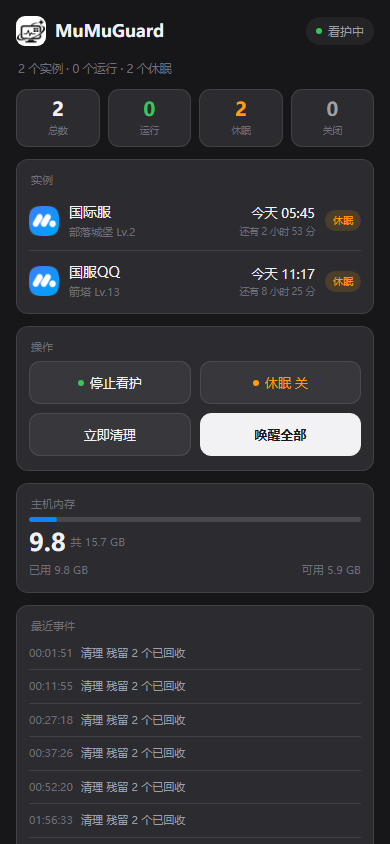
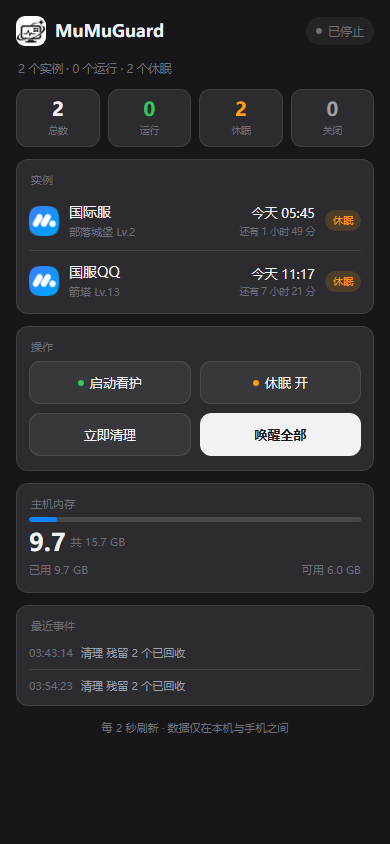
2.0.0 发布准备：README 重写（249 行，24 项设置表+5 张新图）；自检扩到 25 项；自检不再弹资源管理器；版本比较忽略预发布后缀

diff --git a/README.md b/README.md
@@ -1,10 +1,10 @@
 <img src="icon.png" width="80" align="left" style="margin-right:14px" alt="MuMuGuard">
 
-# MuMuGuard
+# MuMuGuard：MuMu 模拟器多开看护面板
 
-**MuMu 模拟器多开看护面板。** 盯着你的每一个实例，掉线自动重启，等升级期间自动休眠省内存，醒来自己接着跑。
+盯着每个实例，掉线自动拉起，等升级时休眠省内存，醒来自动接着跑。
 
-![版本](https://img.shields.io/badge/version-1.6.3-3DDC84)
+![版本](https://img.shields.io/badge/version-2.0.0-3DDC84)
 ![平台](https://img.shields.io/badge/platform-Windows%2010%20%7C%2011-0A0D14)
 ![许可](https://img.shields.io/badge/license-MIT-blue)
 ![QQ 群](https://img.shields.io/badge/QQ%E7%BE%A4-1128379535-12B7F5)
@@ -13,48 +13,80 @@
 
 ---
 
-## 长什么样
+## 它是什么
 
-**概览** — 打开就是全部实例的状态
+MuMuGuard 是给 MuMu 模拟器多开用的看护面板，运行在 Windows 10 / 11 上。它把每个实例的状态收在一个窗口里：内存、CPU、脚本和游戏是否在跑、升级还剩多久。脚本掉了会自动重启，等建筑升级时可以关掉模拟器省内存，快到时间再打开。
 
-![概览](docs/screenshots/shell-live.png)
+它不改 MuMu 本体，不改你的多开配置，不装系统服务，也不上传数据。看护要手动点开始，程序不会自己启动。
 
-**紧凑视图** — 挂角落里，只占 344×182
-
-![紧凑视图](docs/screenshots/live-compact.png)
-
-**手机上也能看**
-
-<img src="docs/screenshots/remote-phone.png" width="330" alt="手机页面">
+项目地址：[github.com/suuk324/MuMuGuard](https://github.com/suuk324/MuMuGuard)
 
 ---
 
-## 它能做什么
+## 界面长什么样
+
+2.0.0 把界面重做成左侧导航加右侧内容区，一共五个页面。主题有跟随系统、深色、浅色三种，在设置页点一下即时切换，不用重启。
+
+<img src="docs/screenshots/shell-dark.png" width="760" alt="概览（深色）">
+
+### 五个页面
+
+| 页面 | 放什么 |
+|---|---|
+| **概览** | 实例总数、运行中、休眠中、已关闭四张统计卡；实例监控；最近事件；主机内存；快捷操作；系统健康；下一次唤醒和今日休眠 |
+| **实例管理** | 每个实例一行，带检测开关、详情，以及启动 / 唤醒 / 重启 |
+| **健康检查** | 内存压缩、系统预取、Mem Reduct、页面文件、CEF、权限六项体检 |
+| **事件记录** | 今日休眠、自动唤醒、内存清理、异常恢复四个数字，下面是完整事件 |
+| **设置** | 24 项可调项，分休眠、掉线恢复、资源告警与清理、路径与包名、其它五组 |
+
+概览里的实例行可以直接点进实例管理，右上角「管理 ›」、事件区的「查看全部 ›」、右侧「系统健康」卡也都能点，不用先找侧栏。
+
+事件记录页有搜索框，按实例名或事件内容过滤；下面还有「全部 / 告警 / 休眠」三个筛选，可以叠加使用。
+
+### 实例详情
+
+实例管理每行都有一个「详情」。点开能看到序号、游戏和等级、升级剩余时间、预计完成时刻、休眠倒计时、内存占用、CPU 情况，以及掉线检测是开启还是已暂停。底部可以直接暂停或恢复这个实例的检测，不影响其它实例。
+
+### 主题和设置
+
+<img src="docs/screenshots/theme-light.png" width="760" alt="概览（浅色）">
+
+切到浅色后是同一套布局，颜色、文字和图标一起换，不会留下深色底。
+
+<img src="docs/screenshots/settings-full.png" width="760" alt="设置页">
+
+设置页的每一行都是「名称 + 一句说明 + 右侧开关或数值」。开关点一下切换，数值点右侧的胶囊直接输入，路径和包名也是点进去改。改完立刻保存，同时写进 `config.json`，不需要重启。
+
+---
+
+## 能做什么
 
 | 功能 | 说明 |
 |---|---|
-| **多开监控** | 自动发现所有实例，显示内存、CEF 进程数、脚本与游戏状态 |
-| **掉线自恢复** | 脚本或游戏掉了，自动重启实例并重新拉起脚本 |
-| **空转识别** | 脚本在跑但一直空转，标记出来 |
-| **CEF 泄漏清理** | 清掉堆积的 `CefViewWing.exe`，能还回几个 GB |
-| **升级休眠** | 脚本只是在等建筑升级时关掉模拟器省内存，升级前自动唤醒 |
-| **健康自检** | 内存压缩、SysMain、Mem Reduct、页面文件、CEF、权限，六项体检 |
-| **手机看状态** | 局域网直连，或公网中转，在外面也能看一眼 |
-| **托盘常驻** | 收起只留托盘图标，唤醒器独立运行 |
+| **多开监控** | 自动发现 MuMu 实例，显示内存、CPU、CEF 进程数、脚本与游戏状态 |
+| **掉线自恢复** | 连续检测到脚本或游戏掉线后重启实例，并重新拉起脚本 |
+| **空转识别** | 脚本在跑但 CPU 长期很低时标出来，避免白挂一晚上 |
+| **CEF 泄漏清理** | 清掉堆积的浏览器组件进程（`CefViewWing.exe`），每个实例保留指定数量 |
+| **升级休眠** | 等升级时关掉模拟器省内存，升级完成前自动唤醒 |
+| **健康自检** | 内存压缩、系统预取、Mem Reduct、页面文件、CEF、权限六项 |
+| **实例详情** | 内存、CPU、升级进度、休眠倒计时、检测状态集中在一处 |
+| **事件搜索** | 按实例名或事件内容找记录，也能只看告警或只看休眠 |
+| **手机看状态** | 局域网扫码，或走公网中转；能看状态，也能按四个常用动作 |
+| **托盘与紧凑视图** | 收起后只留托盘图标，紧凑视图 344×182 挂在角落 |
 
-**它不做什么**：不上传你的数据、不常驻后台服务、不改 MuMu 本体、不动你的 6GB/6 核配置。
+**它不做什么**：不上传你的数据、不安装常驻服务、不改 MuMu 本体、不动你的多开配置。
 
 ---
 
-## 安装
+## 怎么安装
 
-### 方式一：下载 exe（推荐）
+### 方式一：下载 exe
 
 1. 到 [Releases](../../releases) 下载最新的 `MuMuGuard.exe`
-2. 放到任意文件夹（**别放 `C:\Program Files`**，会有权限问题）
-3. 双击运行
+2. 放到一个固定的文件夹，**不要放 `C:\Program Files`**，那里写配置会有权限问题
+3. 双击运行。如果 SmartScreen 提示未知发布者，点「更多信息」再点「仍要运行」
 
-首次启动会在同目录生成 `config.json`，并自动找到 MuMu 安装位置。
+首次启动会在程序所在目录创建 `config.json`，并自动查找 MuMu 安装位置。
 
 ### 方式二：源码运行
 
@@ -64,115 +96,154 @@ cd MuMuGuard
 powershell -STA -NoProfile -ExecutionPolicy Bypass -File .\MuMuGuardApp.ps1
 ```
 
-需要 PowerShell 5.1（Windows 10/11 自带），不需要装任何东西。
+需要 PowerShell 5.1，Windows 10 / 11 自带，不用另外装东西。
+
+### 脚本版和 exe 版的数据
+
+两个版本现在共用同一套数据。程序按这个顺序找配置：`_dist\config.json` → 程序所在目录的 `config.json` → `%LOCALAPPDATA%\MuMuGuard\config.json`。所以只要把 exe 放进 `_dist`，源码版和 `_dist\MuMuGuard.exe` 读写的就是同一份设置、休眠任务和日志。
+
+如果把 exe 复制到了别的文件夹，它会用自己旁边的数据，看起来就像设置丢了。想保持一致，把 exe 放回 `_dist`，或者把旧的 `config.json` 复制过去。
 
 ---
 
-## 第一次打开会看到公告
-
-每天第一次打开时弹一次，写着最近的改动和联系方式。
-
-- **关闭** — 关掉，下次打开还会出现
-- **今日不提醒** — 今天不再弹，明天恢复
-
-想再看一次：托盘图标右键 → **公告**。
-
-![公告](docs/screenshots/announce.png)
-
----
-
-## 使用
+## 第一次使用
 
 1. 先启动 MuMu 和你的脚本
-2. 打开 MuMuGuard，点侧栏的 **实例管理**，确认实例都被认出来了
-3. 点右上角开始看护
-4. 平时挂 **紧凑视图** 就行，要看细节点回完整面板
+2. 打开 MuMuGuard，点侧栏 **实例管理**，确认实例都被认出来
+3. 回 **概览**，点「开始看护」；需要省内存的话再点一下「自动休眠 关」变成开启
+4. 平时用紧凑视图挂着，要看细节点回来
 
-> 看护是**手动开启**的。程序从不自动启动看护，也不写开机自启（除非你在设置里自己打开）。
-
----
-
-## 界面说明
-
-### 五个页面
-
-| 页面 | 放什么 |
-|---|---|
-| **概览** | 统计、实例列表、最近事件、主机内存曲线、健康摘要、今日统计 |
-| **实例管理** | 每个实例的检测开关，以及启动 / 唤醒 / 重启 |
-| **健康检查** | 六项系统体检，异常会标出来 |
-| **事件记录** | 完整日志，可按「告警 / 休眠」筛选 |
-| **设置** | 休眠规则、守护参数、告警阈值、路径 |
-
-### 紧凑视图
-
-五个环一行排开：
-
-- **蓝色进度环** = 运行中，中间是内存占用百分比
-- **琥珀色圈 + 睡** = 休眠中，脚注显示几点唤醒
-- **灰圈 + 关** = 已关机
-
-### 手机页面
-
-| 方式 | 用途 |
-|---|---|
-| 局域网 | 手机和电脑同一个 Wi-Fi，扫码直接连，数据不出内网 |
-| 公网中转 | 不在家也能看，走 MQTT 中转，内容用 HMAC 签名，别人伪造不了 |
-
-四个按钮对应真实动作：看护开关、休眠开关、立即清理、全部唤醒。
+看护是手动开启的。程序不会自动开始看护，开机自启默认也是关的。
 
 ---
 
-## 配置
+## 设置项说明
 
-`config.json` 里常用的一项一行，也可以在 **设置** 页改。
+设置页一共 24 项，按五组排列。下面按页面顺序列出，默认值取自程序内置配置。
 
-| 配置项 | 默认 | 说明 |
+### 休眠
+
+| 设置项 | 默认 | 说明 |
 |---|---|---|
-| `MemAlertMB` | 9216 | 实例内存告警阈值（读不到实例配置时的兜底） |
-| `CefAlert` | 20 | CEF 进程数超过就触发清理 |
-| `CefStaleMin` | 10 | 只清理存在超过 N 分钟的 CEF |
-| `CpuAlert` | 4.0 | CPU 核数超过标记「CPU 偏高」 |
-| `GuardMinute` | 5 | 看护清理间隔（分钟） |
-| `AutoRecover` | true | 掉线自动恢复 |
-| `RecoverCheckSec` | 60 | 掉线检测间隔（秒） |
-| `RecoverFailCount` | 2 | 连续几次判定掉线 |
-| `AutoSleep` | false | 升级休眠（默认关，需要自己开） |
-| `SleepBackground` | true | 游戏切到后台时也允许休眠 |
-| `SleepIdleMin` | 10 | 后台空闲多少分钟才判定在等升级 |
-| `SleepLeadMin` | 10 | 升级完成前多少分钟唤醒 |
-| `SleepMinHours` | 1 | 最短休眠时长，太短就不睡 |
-| `SleepMaxHours` | 168 | 最长休眠时长 |
-| `DetectOff` | [] | 不检测的实例号 |
-| `LogKeepDays` | 7 | 日志保留天数 |
-| `Theme` | auto | `auto` 跟随系统 / `dark` / `light` |
-| `UpdateRepo` | suuk324/MuMuGuard | 检查更新用的仓库 |
+| 自动休眠 | 关 | 脚本在等升级时关掉模拟器省内存，升级前自动唤醒 |
+| 后台也休眠 | 开 | 游戏退到后台时也允许休眠 |
+| 后台空闲判定 | 10 分钟 | 游戏退到后台多少分钟后，才按「在等升级」处理 |
+| 提前唤醒 | 10 分钟 | 升级完成前多少分钟启动模拟器 |
+| 最短休眠 | 1 小时 | 剩余时间比这短就不睡，避免反复开关机 |
+| 最长休眠 | 168 小时 | 剩余时间比这长就不睡，比如两天以上 |
+
+### 掉线恢复
+
+| 设置项 | 默认 | 说明 |
+|---|---|---|
+| 掉线自动恢复 | 开 | 脚本或游戏掉线时重启实例，并重新拉起脚本 |
+| 检测间隔 | 60 秒 | 每隔多久检查一次实例是否掉线 |
+| 连续几次判定掉线 | 2 次 | 连续失败这么多次才重启，减少误判 |
+| 恢复冷却 | 10 分钟 | 两次自动恢复之间至少隔这么久，防止反复重启 |
+
+### 资源告警与清理
+
+| 设置项 | 默认 | 说明 |
+|---|---|---|
+| 清理间隔 | 5 分钟 | 看护每隔多久做一次内存清理，0 表示不清理 |
+| 低内存告警 | 800 MB | 主机可用内存低于这个值时报警 |
+| 单实例内存告警 | 9216 MB | 单个实例占用超过这个值时报警 |
+| CPU 告警 | 4 核 | 单个实例 CPU 占用超过这个值时标记出来 |
+| CEF 泄漏阈值 | 20 个 | 单个实例的 CEF 进程超过这个数就判定为泄漏 |
+| CEF 保留数量 | 3 个 | 清理时每个实例保留几个 CEF 进程 |
+| 仅清理闲置进程 | 10 分钟 | 只清理闲置超过这么久的 CEF，避免误伤刚启动的 |
+| 空转阈值 | 50% | CPU 低于这个百分比视为空转，可以被清理 |
+
+### 路径与包名
+
+| 设置项 | 默认 | 说明 |
+|---|---|---|
+| MuMu 安装路径 | 自动识别 | `MuMuManager.exe` 所在目录，换版本或换盘后改这里 |
+| 脚本包名 | `com.coc.zkqcode` | 用来判断脚本是否在运行，换成你自己脚本的包名 |
+| 游戏包名 | 内置 CoC 包名 | 用来判断游戏是否在前台，多个包名用空格隔开 |
+
+### 其它
+
+| 设置项 | 默认 | 说明 |
+|---|---|---|
+| 开机自动启动 | 关 | 开机后自动进托盘常驻，会写入注册表启动项 |
+| 日志保留 | 7 天 | 超过这个天数的日志自动删除 |
+| 主题 | 跟随系统 | 在跟随系统、深色、浅色之间切换，点一下即时生效 |
+
+设置页底部还有几项工具：
+
+- **清除记忆**：删掉全部休眠任务、内存趋势、今日统计、事件记录和已导出的报告，设置项保留。当天数字会立即归零。正在休眠的实例不会再自动唤醒，清之前想清楚。
+- **导出设置**：把当前设置导出成一个文件，换电脑或重装前留个备份。
+- **恢复默认设置**：把上面 24 项改回初始值，改过的项会回到默认状态。
+- **打开日志目录 / 导出诊断报告 / 检查更新**：排错、反馈和升级用。
+
+---
+
+## 手机访问
+
+手机和电脑在同一个 Wi-Fi 时，打开概览右侧的「手机访问」，选「局域网」，点「开启服务」，扫码就能看。不在家就切到「出门用」。
+
+<img src="docs/screenshots/remote-dialog.png" width="360" alt="手机访问弹窗">
+
+弹窗顶部是「局域网 / 出门用」分段切换，切换时提示文字、二维码、链接一起变。二维码下面是完整地址，右侧「复制」；服务开着时按钮显示「停止服务」。
+
+- **局域网**：手机直连电脑，数据不出内网。服务默认从 8790 端口开始，端口被占用会自动往后找一个可用的，实际端口写回设置，二维码和链接跟着更新。
+- **出门用**：电脑和手机不在同一网络也能看，走公共中转。只传实例名、状态、内存和事件摘要，不传账号、密码或屏幕画面；指令和状态都带签名。
+- **刷新令牌 / 重新配对**：局域网是换令牌，出门用是换整套配对信息，旧二维码和旧链接随即失效。
+
+手机端可以看实例状态、剩余时间、主机内存和最近事件，也可以按四个键：看护开关、休眠开关、立即清理、全部唤醒。
+
+<img src="docs/screenshots/wake-phone.png" width="300" alt="手机页面">
+
+出门用依赖公共中转，网络不好时会慢几秒。连不上时先切回局域网，确认面板本身是正常的。
 
 ---
 
 ## 常见问题
 
 **为什么读不到升级时间？**
-需要游戏在跑、脚本是 coc 的常用脚本（默认包名 `com.coc.zkqcode`）。配置里 `PkgScript` 改成你自己的包名。
+
+需要游戏在跑，脚本是 CoC 常用脚本（默认包名 `com.coc.zkqcode`）。换了脚本就在设置里改「脚本包名」。游戏完全没启动时，自然也读不到升级任务。
 
 **休眠后唤醒失败？**
-检查 MuMu 是不是以管理员身份运行、而面板不是——权限不一致会导致控制失效。健康检查页的「权限」会标出来，两边都管理员运行即可。
 
-**任务栏图标变成 PowerShell 的？**
-用 exe 启动就有独立图标；用脚本启动会显示 PowerShell 图标，正常。
+多半是权限不一致：MuMu 以管理员身份运行，面板不是，或者反过来。健康检查页的「权限」会标出「需管理员」，两边都用管理员运行即可。
 
-**数据存在哪？**
-exe 同目录：`config.json`、`sleep.json`、`logs\`。不上传任何地方。
+**手机扫码打不开？**
+
+先确认手机和电脑在同一个 Wi-Fi、弹窗里的服务已经开启、Windows 防火墙放行了面板。端口被占用时程序会自动顺延，以弹窗里显示的地址为准，不要照旧地址输。出门用连不上公共中转时，先切回局域网排除电脑这边的问题。
+
+**清除记忆会删什么？**
+
+删休眠任务、内存趋势、今日统计、事件记录、日志和已导出的报告；保留 `config.json`，所以设置不用重配。清除后当天数字立即归零。
+
+**脚本版和 exe 版的数据为什么对不上？**
+
+程序优先读 `_dist\config.json`，其次是 exe 所在目录。exe 被挪到别处时，它会用新位置的数据。把 exe 放回 `_dist`，两个版本就一致了。
+
+**任务栏图标是 PowerShell 的？**
+
+用 exe 启动有独立图标；用脚本启动会显示 PowerShell 图标，这是正常的。
+
+**从旧版本升上来，设置会丢吗？**
+
+不会。新版本会补上缺的默认项，旧配置自动备份成 `.bak`。个别默认值有调整的项，建议升级后到设置页再看一眼。
+
+**看护会自己启动吗？**
+
+不会。看护要手动点开始。开机自启默认关闭，即使打开也只是进托盘，不会自动开始看护。
 
 ---
 
 ## 反馈
 
 - 提 issue：[github.com/suuk324/MuMuGuard/issues](https://github.com/suuk324/MuMuGuard/issues)
-- QQ 群：**1128379535**（用久了有想法、想加功能，直接群里说）
+- QQ 群：**1128379535**
+
+反馈问题时，附上系统版本、复现步骤，以及设置页「导出诊断报告」导出的文件，会好查很多。
 
 ---
 
 ## 许可
 
-MIT
+MIT，见 [LICENSE](LICENSE)。
